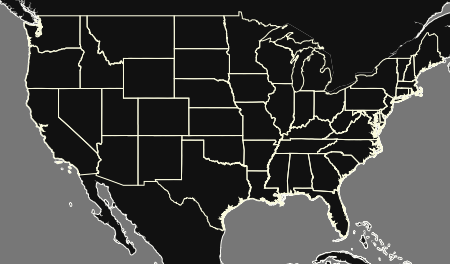
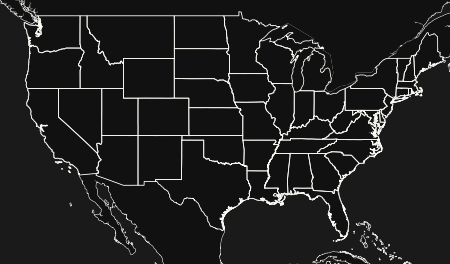
Update lettering

diff --git a/transform.py b/transform.py
@@ -132,7 +132,7 @@ def add_timestamp(image, timestamp, region):
     elif region == 'Conus':
         y_pos = h - 40
         x_pos = 10
-        color = (80, 80, 80)
+        color = (250, 250, 250)
     else:
         y_pos = 10
 
@@ -151,7 +151,7 @@ def basemap_text(image, region):
     if region == 'Conus':
         draw.text((10, h - 23), "@wxGIF", (80, 80, 80), font=small_font)
         draw.text((w - 210, h - 23), "Radar, made for Twitter",
-            (80, 80, 80), font=small_font)
+            (250, 250, 250), font=small_font)
         return image
 
     if region in ['southeast', 'southplains', 'pacsouthwest']:
